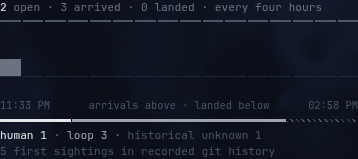
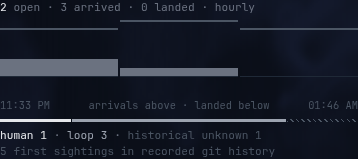
polish(#217): make provenance geometry and evidence exact
Use exact flex weights so rounded shares cannot leave a false empty sliver; keep tiny nonzero cohorts visible while zero remains absent; expose full ellipsised legend text. Narrow the height comment to per-state truth.

Pin both server and browser clocks and normalise the caller-owned temp target crumb so desktop/mobile evidence is byte-identical across independent OUT paths. Geometry and vision PASS on regenerated captures.

Migration/config/consent: none.

diff --git a/watch.py b/watch.py
@@ -569,12 +569,13 @@ STYLE = """<style>
      facts in words. NO MOTION: a live tick commits its DOM instantly
      (transitions.md), so no part of this declares a transition, and
      reduced-motion parity is the identical settled visual. The
-     count-carrying lines may never wrap — the panel's constant height is
-     the premise the bars' motion rests on — so they ellipsis like the
-     head does, and the full text rides the aria-label. */
+     count-carrying lines may never wrap — the panel's height is constant
+     within each complete/incomplete state, which is the premise the bars'
+     motion rests on — so they ellipsis like the head does, and their full
+     text rides the aria-label/title. */
   .bdprov { margin:.45rem 0 0; }
   .provbar { display:flex; height:3px; gap:1px; margin-bottom:.35rem; }
-  .provseg { height:100%; }
+  .provseg { height:100%; flex:var(--share) 1 0; }
   .provseg.phuman { background:var(--lit); }
   .provseg.ploop { background:var(--muted); }
   .provseg.punknown { background:repeating-linear-gradient(45deg,
@@ -2149,7 +2150,6 @@ function provBlock(p) {
            `yet</div>`;
   const rows = [['human', p.human, 'phuman'], ['loop', p.loop, 'ploop'],
                 ['historical unknown', p.unknown, 'punknown']];
-  const pct = n => Math.round((n / total) * 1000) / 10;
   const incomplete = p.history_complete === false;
   /* the aria-label is the WHOLE datum in words: the bar is a picture of
      this sentence, and the sentence is what a screen reader gets. */
@@ -2159,10 +2159,13 @@ function provBlock(p) {
   return `<div class="bdprov">` +
     `<div class="provbar" role="img" aria-label="${esc(aria)}">` +
     rows.map(([n, c, cls]) =>
-      `<div class="provseg ${cls}" style="width:${pct(c)}%" ` +
+      /* Flex distributes the exact remaining track after the two gaps, so
+         independently rounded percentages cannot leave a false empty sliver.
+         A real but tiny cohort stays visible; zero remains truly absent. */
+      `<div class="provseg ${cls}" style="--share:${c};min-width:${c ? 2 : 0}px" ` +
       `title="${esc(n)} ${c}" aria-hidden="true"></div>`).join('') +
     `</div>` +
-    `<div class="provline">` +
+    `<div class="provline" title="${esc(rows.map(([n, c]) => `${n} ${c}`).join(' · '))}">` +
     rows.map(([n, c, cls]) =>
       `<span class="${cls}">${esc(n)} ${c}</span>`).join(' · ') +
     `</div>` +

diff --git a/test_watch.py b/test_watch.py
@@ -894,6 +894,12 @@ class TestCollector(unittest.TestCase):
         self.assertIn("historical unknown", page)
         self.assertIn("coverage is incomplete", page)
         self.assertIn("title=\"${esc(n)} ${c}\"", page)
+        self.assertIn('class="provline" title="${esc(', page)
+        # Exact flex weights fill the track without independently-rounded
+        # percentage slivers; nonzero tiny cohorts remain visible, while
+        # zero remains truly absent.
+        self.assertIn("flex:var(--share) 1 0", page)
+        self.assertIn("min-width:${c ? 2 : 0}px", page)
         # the panel's height is the premise the bars' motion rests on, so
         # the count-carrying lines may never wrap
         self.assertRegex(page, r"\.provline\s*\{[^}]*white-space:nowrap")
